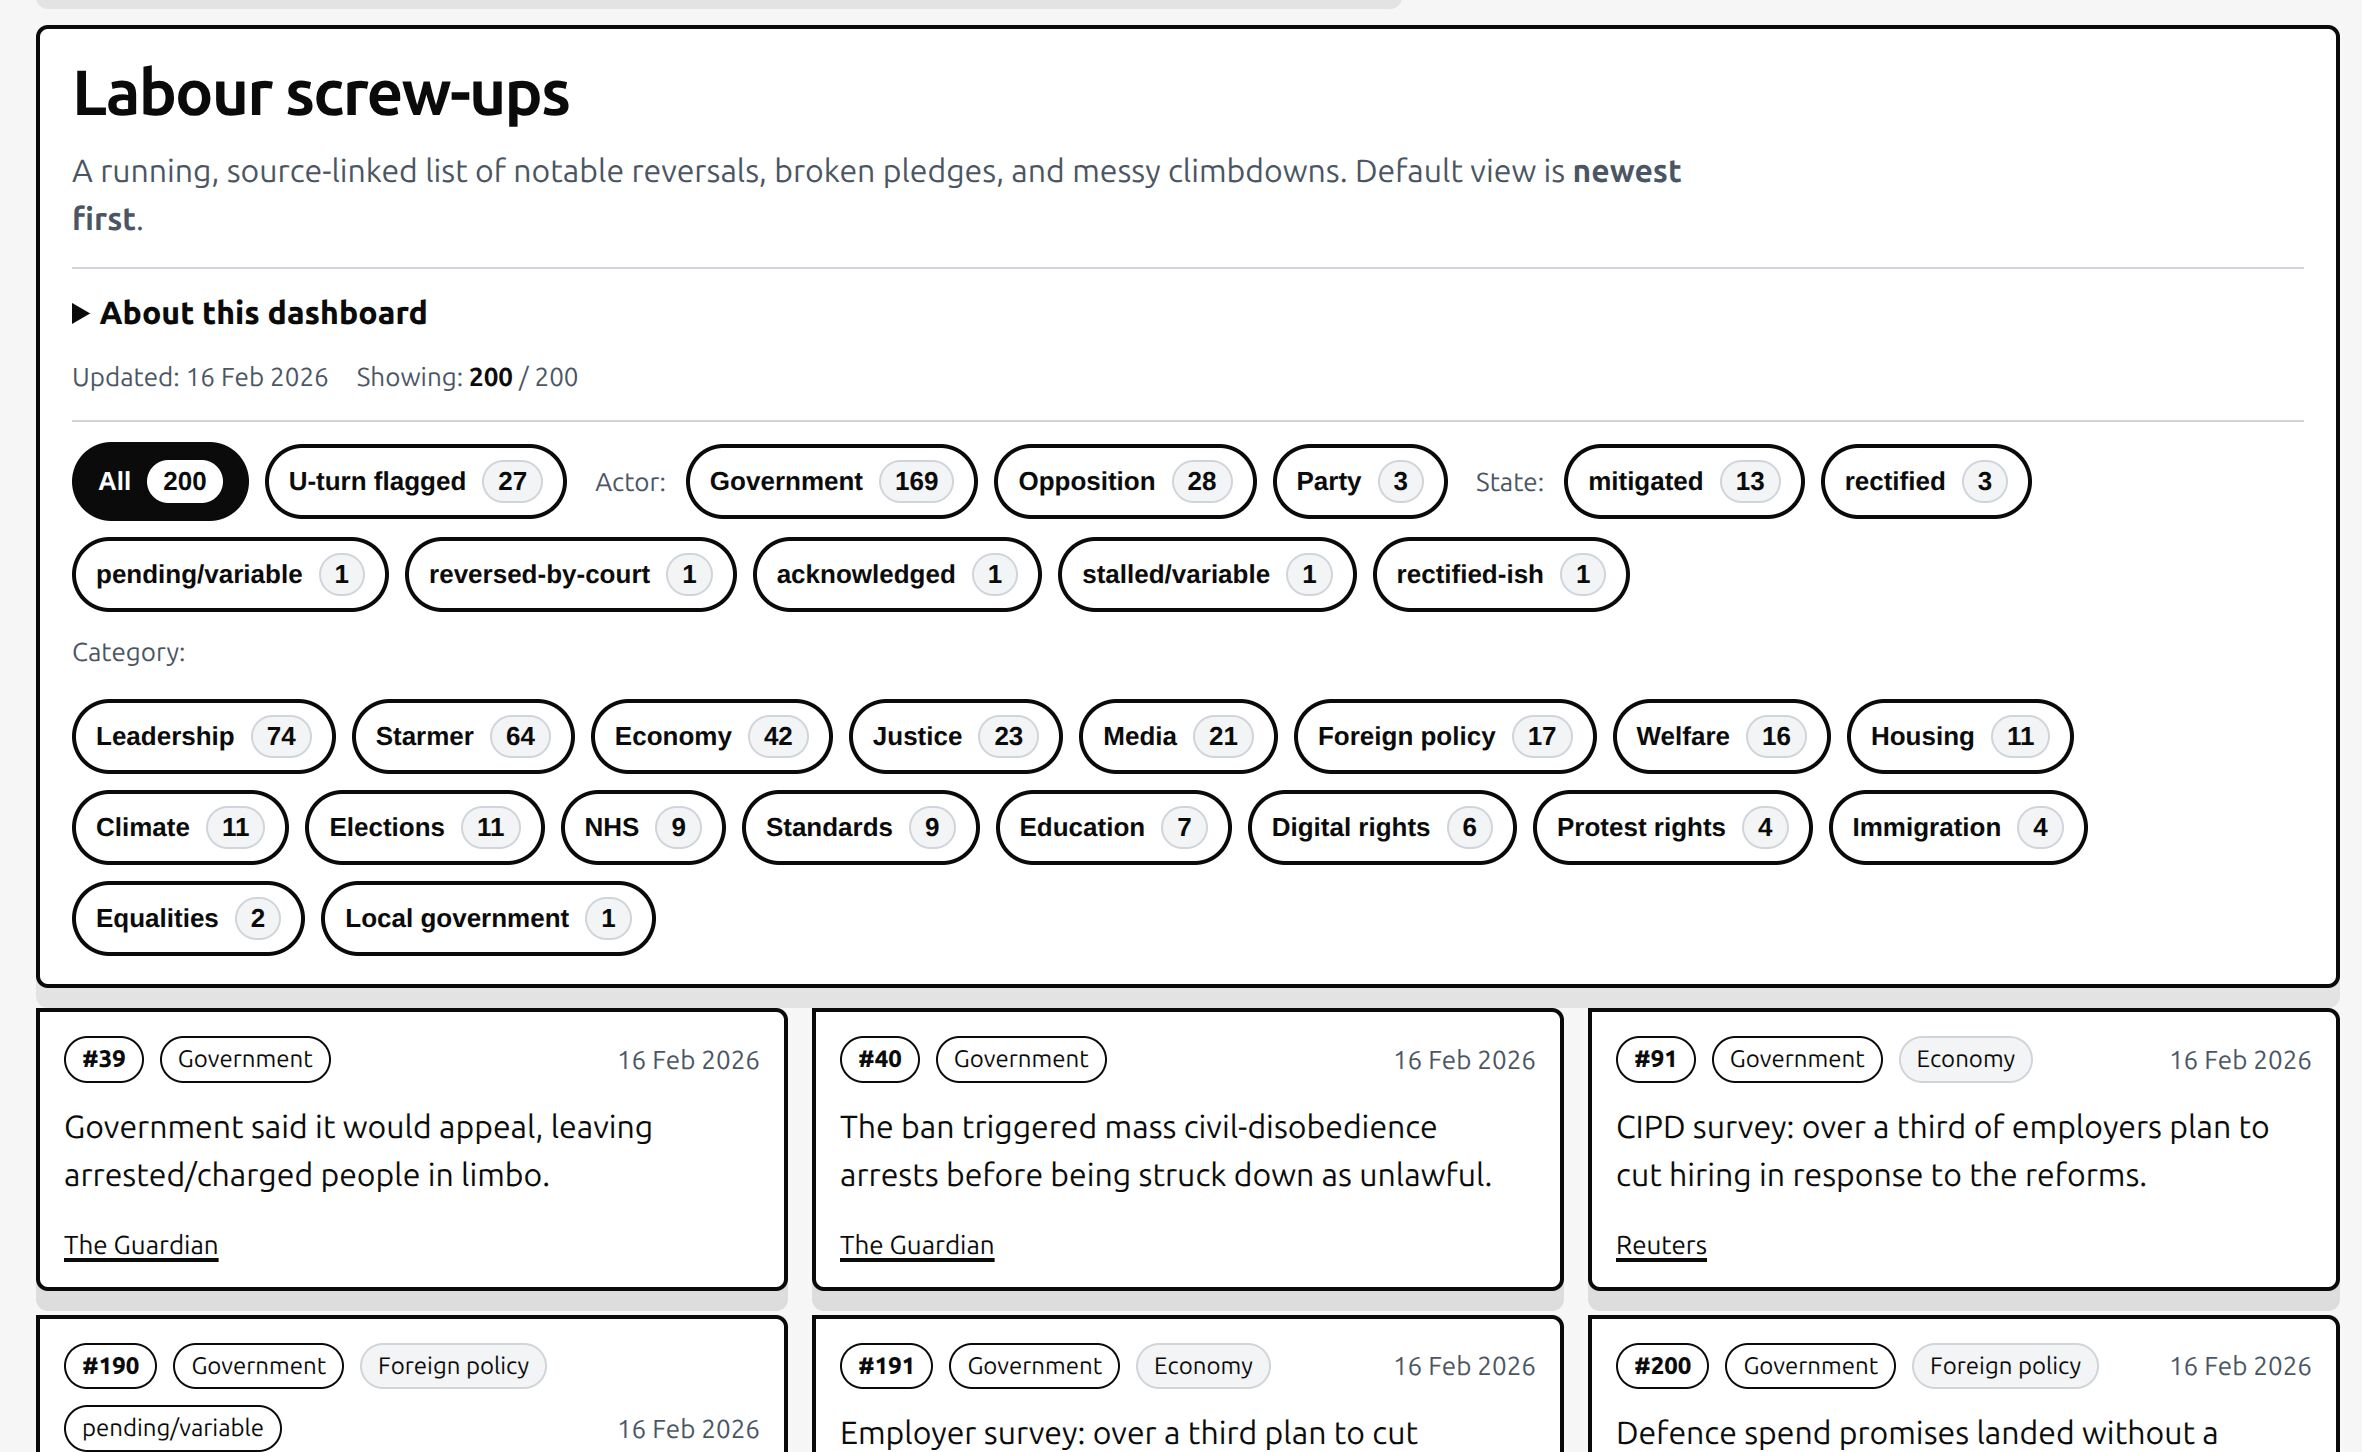
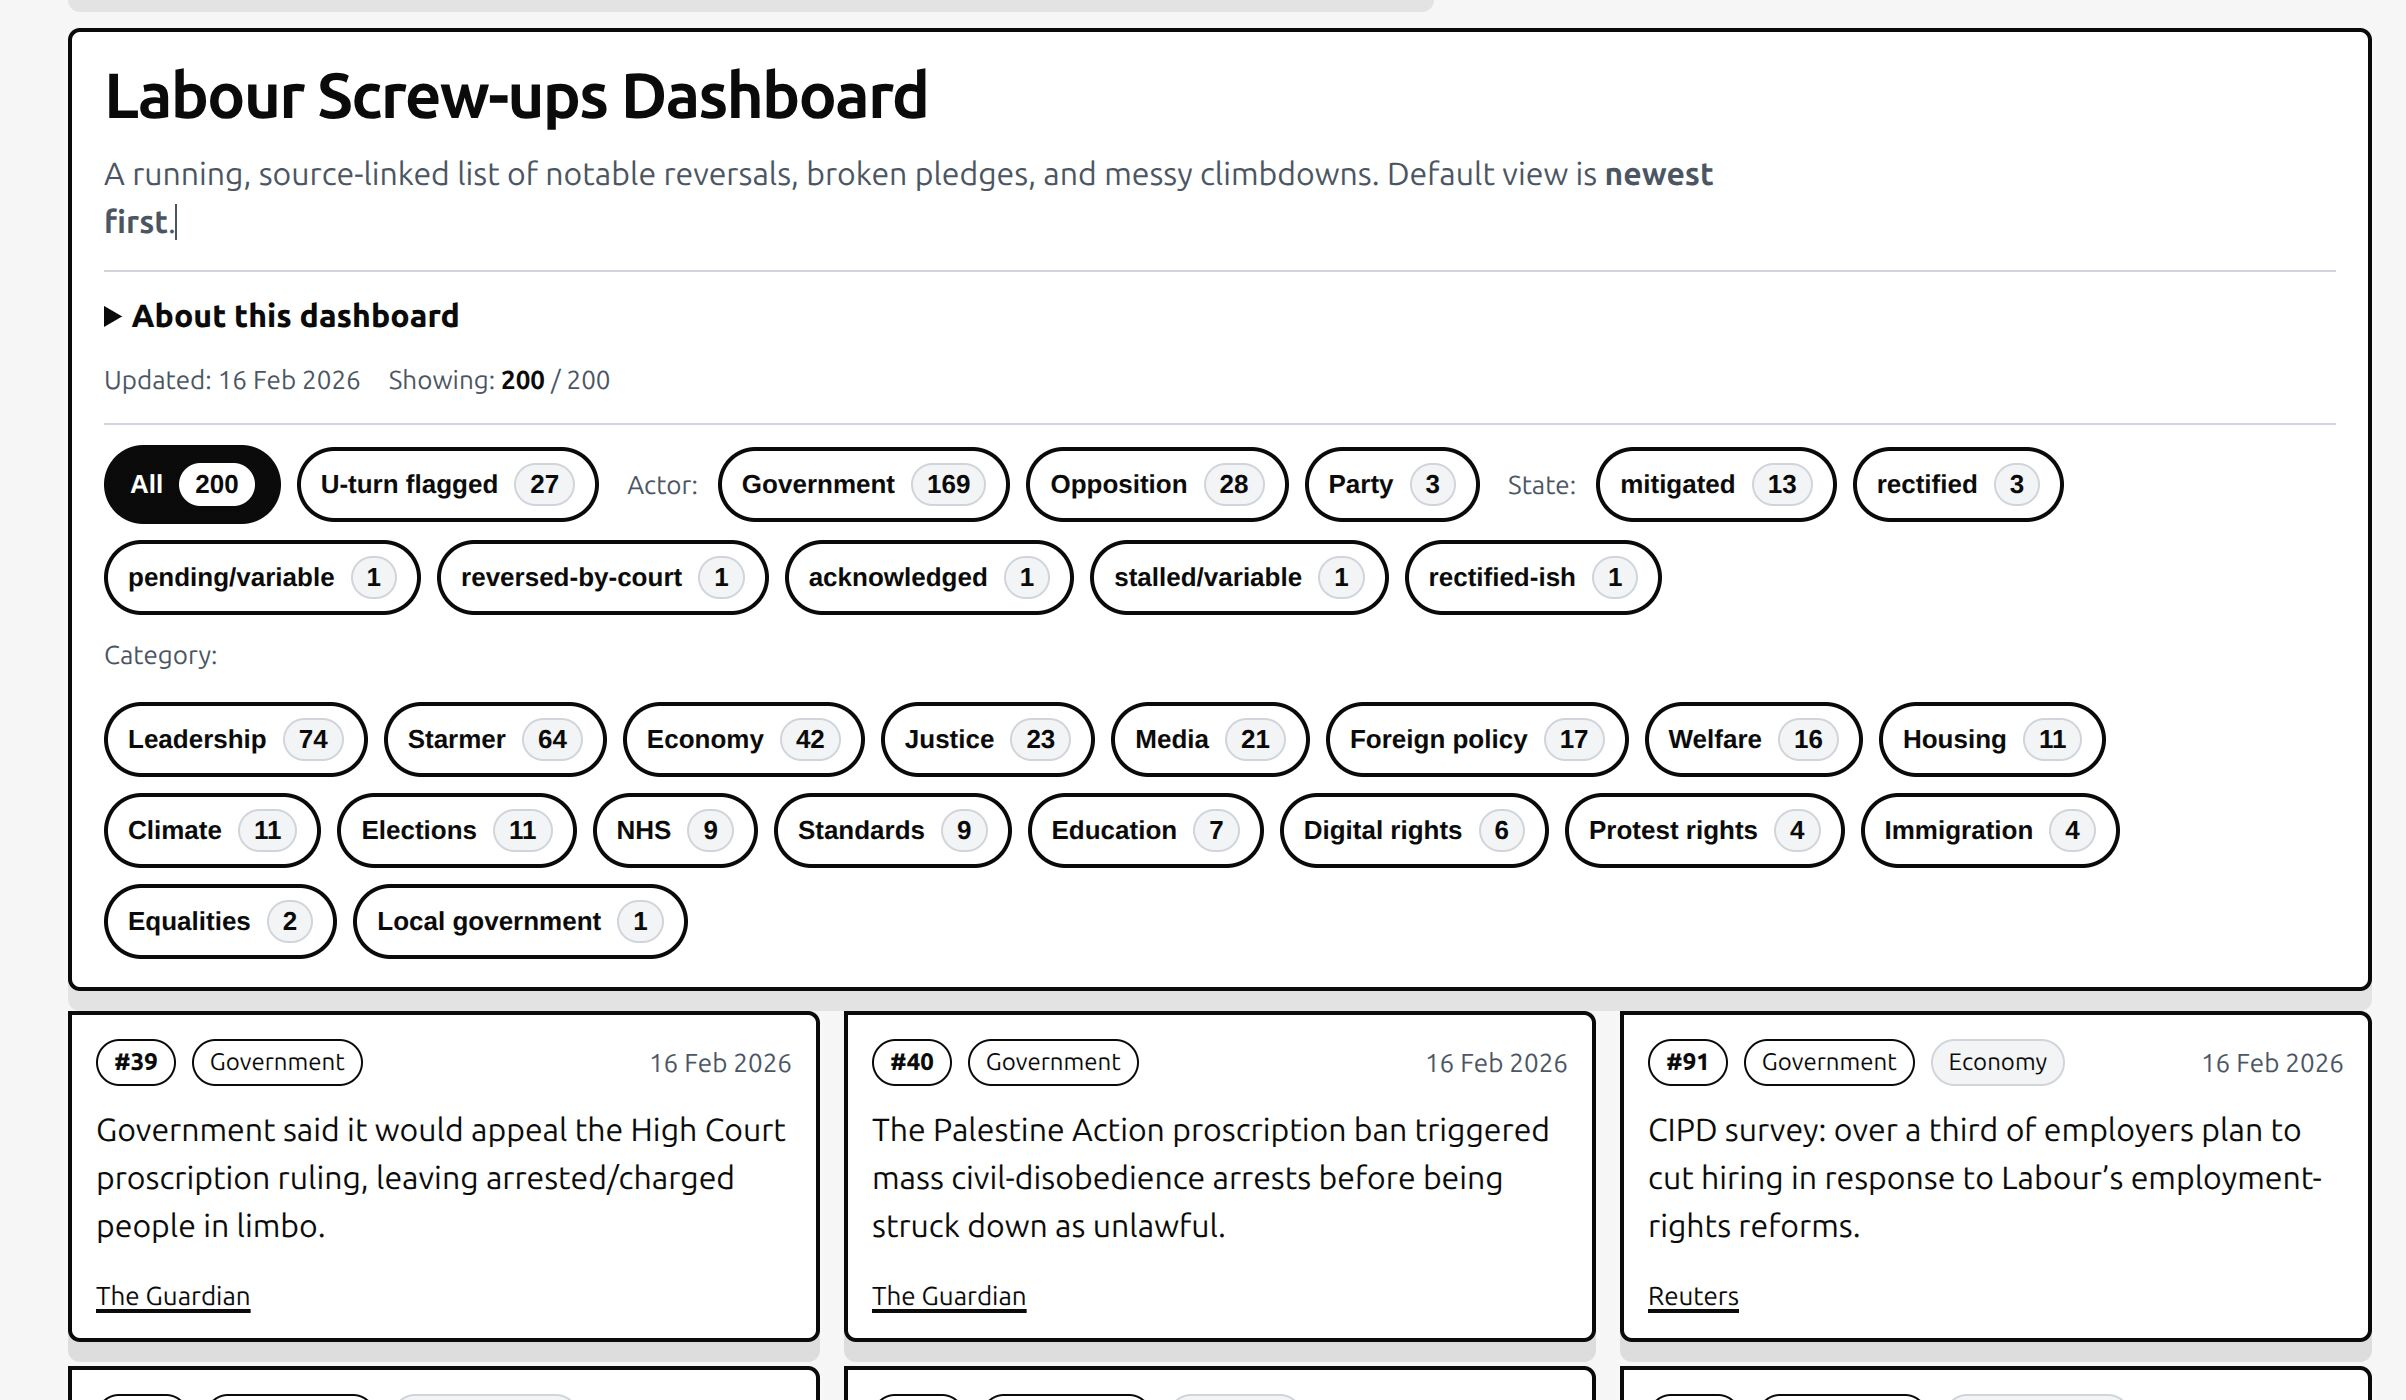
Side quests

Changed region(s): [[0.0, 0.0, 1.0, 1.0], [0.9581, 0.0307, 1.0, 0.6757]]

diff --git a/docs/index.html b/docs/index.html
@@ -104,11 +104,11 @@ A report on how and why gamers have long been an appealing target for agitators.
 	</div>
 </section>
 
-<section aria-labelledby="microsites">
-	<h3 id="microsites">Microsites</h3>
-	<p class="muted">Short, interactive explainers and tools — quick ways to sanity-check popular claims.</p>
-	<div class="reports-grid">
-		
+	<section aria-labelledby="microsites">
+		<h3 id="microsites">Side quests</h3>
+		<p class="muted">Short, interactive explainers and tools — quick ways to sanity-check popular claims.</p>
+		<div class="reports-grid">
+			
 <div class="report-card">
   <a href="/immigrants-vs-billionaires/">
     <div class="card-title">Immigrants vs Billionaires</div>
@@ -127,8 +127,8 @@ A report on how and why gamers have long been an appealing target for agitators.
     <div class="card-meta">A source-linked timeline of reversals, broken pledges, and messy climbdowns — filterable by actor, category, state, and U-turn flags.</div>
   </a>
 </div>
-	</div>
-</section>
+		</div>
+	</section>
 
 <section class="subscribe" aria-labelledby="stay-up-to-date">
 	<h3 id="stay-up-to-date">Stay up to date</h3>

diff --git a/site/build-orchestrator.js b/site/build-orchestrator.js
@@ -354,13 +354,13 @@ ${logoExists ? `  <div class=\"home-hero-media\"><img src=\"${logoRel}\" alt=\"B
 	</div>
 </section>
 
-<section aria-labelledby="microsites">
-	<h3 id="microsites">Microsites</h3>
-	<p class="muted">Short, interactive explainers and tools — quick ways to sanity-check popular claims.</p>
-	<div class="reports-grid">
-		${micrositeList(microsites) || '<div class="report-card"><div class="card-title">Coming soon</div></div>'}
-	</div>
-</section>
+	<section aria-labelledby="microsites">
+		<h3 id="microsites">Side quests</h3>
+		<p class="muted">Short, interactive explainers and tools — quick ways to sanity-check popular claims.</p>
+		<div class="reports-grid">
+			${micrositeList(microsites) || '<div class="report-card"><div class="card-title">Coming soon</div></div>'}
+		</div>
+	</section>
 
 <section class="subscribe" aria-labelledby="stay-up-to-date">
 	<h3 id="stay-up-to-date">Stay up to date</h3>

diff --git a/site/assets/microsites/labour-screw-ups/build.js b/site/assets/microsites/labour-screw-ups/build.js
@@ -145,7 +145,7 @@ function stripIndent(lines) {
 function parseEntriesFromMarkdown(markdownText) {
   const lines = String(markdownText || '').split(/\r?\n/);
 
-  let title = 'Labour screw-ups';
+  let title = 'Labour Screw-ups Dashboard';
   for (const l of lines) {
     const m = l.match(/^#\s+(.*)$/);
     if (m) { title = m[1].trim(); break; }
@@ -290,8 +290,8 @@ function buildContent({ title, entries }) {
     </nav>
   </section>
 
-  <div class="microCrossLinks" aria-label="Other Better Britain micro-sites">
-    <span class="microCrossLabel">See our other micro-sites:</span>
+  <div class="microCrossLinks" aria-label="Other Better Britain side-quests">
+    <span class="microCrossLabel">See our other side-quests:</span>
     <a href="../immigrants-vs-billionaires/">Immigrants vs Billionaires</a>
     <a href="../woke-vs-antiwoke/">Woke vs Anti-woke</a>
   </div>

diff --git a/site/assets/microsites/woke-vs-antiwoke/index.html b/site/assets/microsites/woke-vs-antiwoke/index.html
@@ -26,8 +26,8 @@
         </nav>
       </section>
 
-      <div class="microCrossLinks" aria-label="Other Better Britain micro-sites">
-        <span class="microCrossLabel">See our other micro-sites:</span>
+      <div class="microCrossLinks" aria-label="Other Better Britain side-quests">
+        <span class="microCrossLabel">See our other side-quests:</span>
         <a href="../immigrants-vs-billionaires/">Immigrants vs Billionaires</a>
         <a href="../labour-screw-ups/">Labour screw-ups dashboard</a>
       </div>

diff --git a/site/assets/microsites/immigrants-vs-billionaires/index.html b/site/assets/microsites/immigrants-vs-billionaires/index.html
@@ -26,8 +26,8 @@
         </nav>
       </section>
 
-      <div class="microCrossLinks" aria-label="Other Better Britain micro-sites">
-        <span class="microCrossLabel">See our other micro-sites:</span>
+      <div class="microCrossLinks" aria-label="Other Better Britain side-quests">
+        <span class="microCrossLabel">See our other side-quests:</span>
         <a href="../woke-vs-antiwoke/">Woke vs Anti-woke</a>
         <a href="../labour-screw-ups/">Labour screw-ups dashboard</a>
       </div>

diff --git a/site/assets/microsites/labour-screw-ups/Labour-Screw-Ups.md b/site/assets/microsites/labour-screw-ups/Labour-Screw-Ups.md
@@ -1,4 +1,4 @@
-# Labour screw-ups
+# Labour Screw-ups Dashboard
 
 1. [Opp | Climate] Scrapped the £28bn-a-year green investment plan after championing it since 2021. ([Reuters](https://www.reuters.com/world/uk/uks-labour-pledges-hike-green-investment-win-power-2021-09-27/)) <!--meta date=2021-09-27 precision=day sort=2021-09-27-->
 
